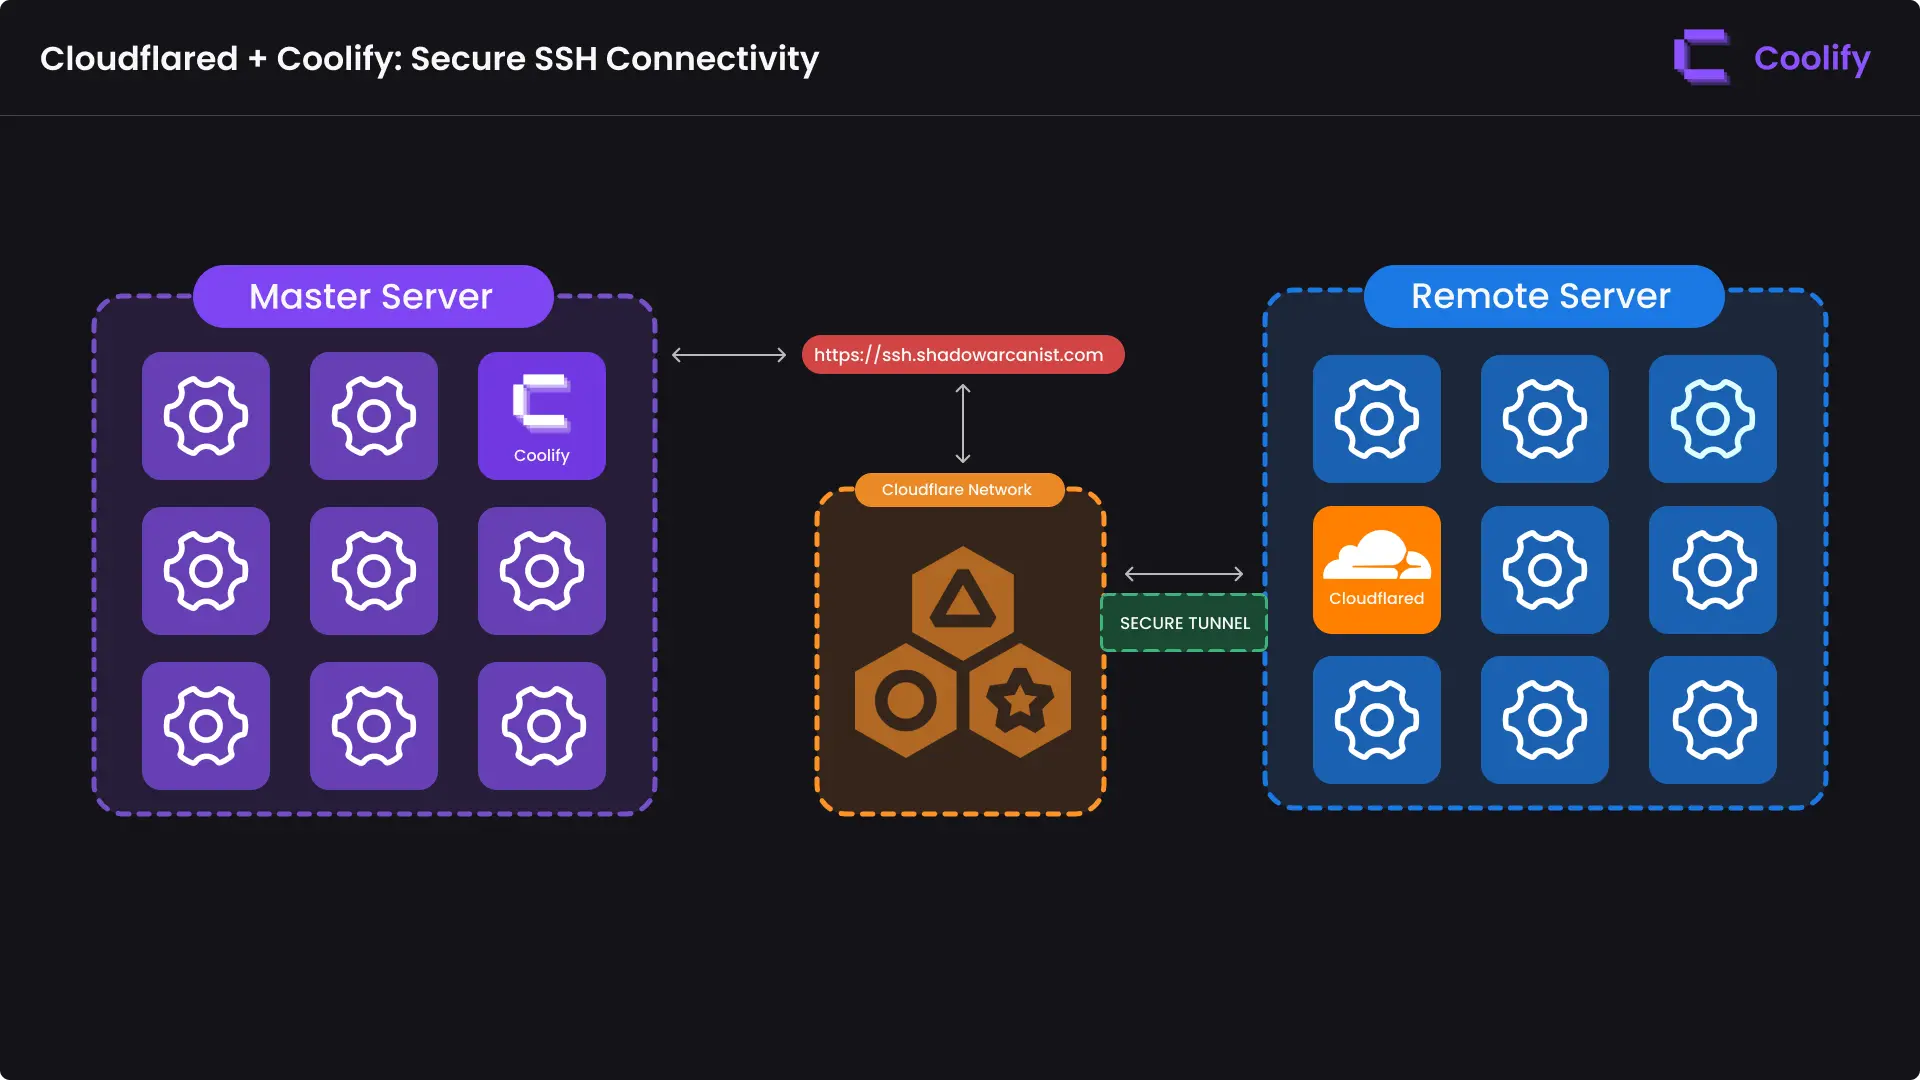
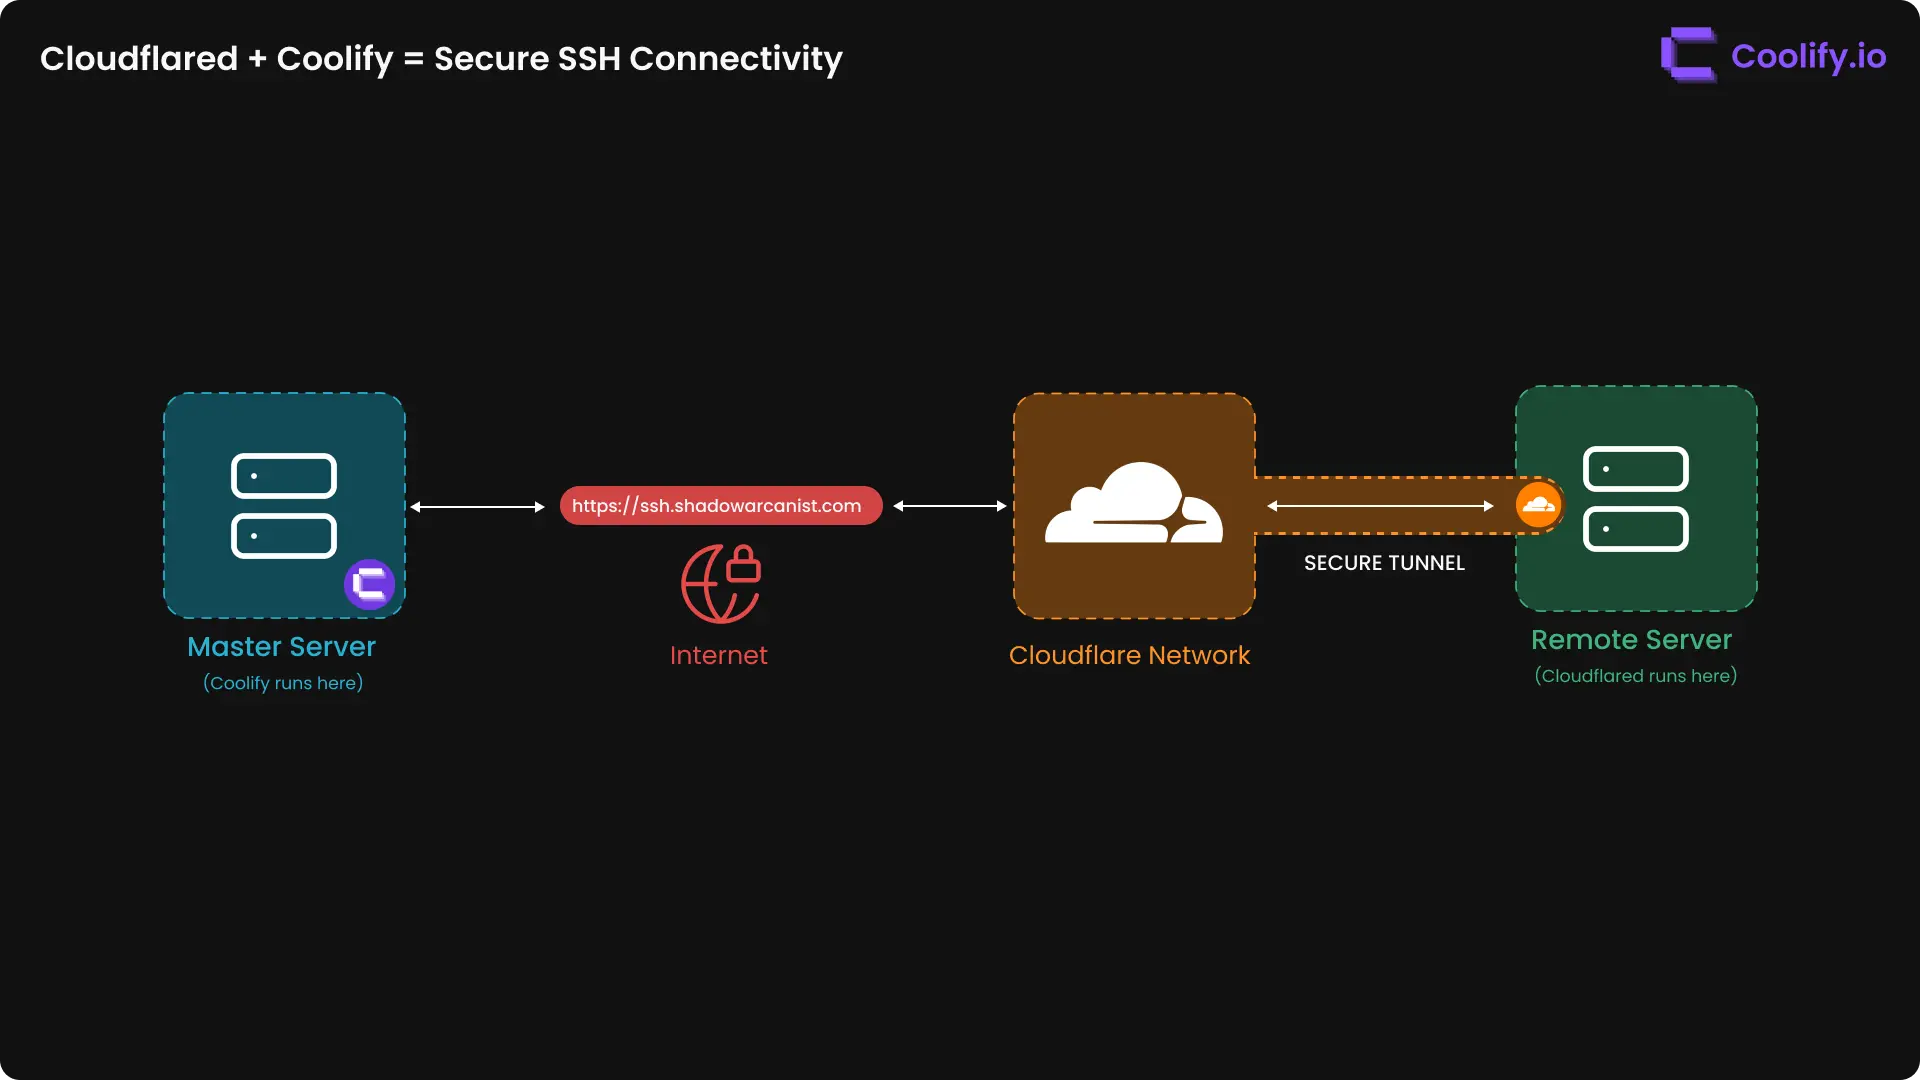
Redesigned high level diagram + update CF zero trust link

diff --git a/docs/knowledge-base/cloudflare/tunnels/server-ssh.md b/docs/knowledge-base/cloudflare/tunnels/server-ssh.md
@@ -119,7 +119,7 @@ Once the validation is completed, your server page will look like this:
 
 
 ## 5. Create a Cloudflare Tunnel
-To create a Cloudflare Tunnel, first log in to your Cloudflare account and go to the [Zero Trust ↗](https://dash.cloudflare.com/sign-up) page (located in the sidebar on the homepage of the dashboard)..
+To create a Cloudflare Tunnel, first log in to your Cloudflare account and go to the [Zero Trust ↗](https://one.dash.cloudflare.com/) page.
 
 <ZoomableImage src="/docs/images/knowledge-base/cf-tunnel/server-ssh/7.webp" />
 
